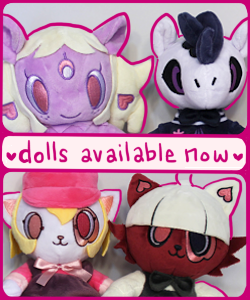
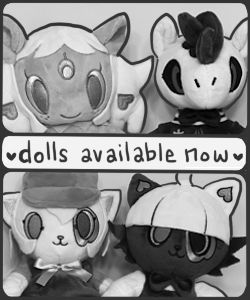
gray

diff --git a/floraverse_com/assets/scss/floraverse.scss b/floraverse_com/assets/scss/floraverse.scss
@@ -7,7 +7,7 @@ body {
 
 body > header {
     padding: 0.5em;
-    background: #44436f;
+    background: grayscale(#44436f);
 }
 
 .front-page-layout .front-page-sidebar {
@@ -25,7 +25,7 @@ body > header {
         @include flex-wrap(wrap);
         @include justify-content(space-around);
         padding: 0.5em;
-        background: #44436f;
+        background: grayscale(#44436f);
 
         a {
             display: block;
@@ -33,7 +33,7 @@ body > header {
             margin: 5%;
             width: calc(50% - 1em);
             margin: calc(0.5em);
-            background: #f0d1f9;
+            background: grayscale(#f0d1f9);
         }
         img {
             display: block;
@@ -67,7 +67,7 @@ body > header {
     @include justify-content(space-between);
     @include align-items(center);
     padding: 0.5em;
-    background: #cac6cf;
+    background: grayscale(#cac6cf);
 
     > .-spacer {
         @include flex(1);
@@ -80,7 +80,7 @@ body > header {
     @include align-items(flex-end);
     @include justify-content(center);
     margin: 0 0.5em;
-    background-color: #817390;
+    background-color: grayscale(#817390);
     // TODO alas i can't get an asset url from in here, so i gotta hardcode this
     background-image:
         url(/static/images/global-title-background-full.png);
@@ -92,7 +92,7 @@ body > header {
     }
     .floraverse-banner--left {
         // space between beleth's tail and the logo
-        margin-right: -50px;
+        //margin-right: -50px;
         // beleth's overlap with the left box
         margin-left: -30px;
     }
@@ -101,7 +101,7 @@ body > header {
     }
     .floraverse-banner--right {
         // space between the logo and andre's...  nose
-        margin-left: -110px;
+        //margin-left: -110px;
         // andre's overlap with the frame
         margin-bottom: -19px;
         // andre's overlap with the right box
@@ -131,19 +131,19 @@ body > header {
     }
 }
 .floraverse-button-deviantart {
-    background: #3a6057;
+    background: grayscale(#3a6057);
 }
 .floraverse-button-twitter {
     background: white;
 }
 .floraverse-button-tumblr {
-    background: #160d4a;
+    background: grayscale(#160d4a);
 }
 .floraverse-button-patreon {
     background: white;
 }
 .floraverse-button-facebook {
-    background: #324274;
+    background: grayscale(#324274);
 }
 .floraverse-button-rss {
     background: white;
@@ -155,7 +155,7 @@ body > header {
     padding: 0.5em;
 
     color: white;
-    background: #242254;
+    background: grayscale(#242254);
 
     > ul {
         @include flexbox;

diff --git a/floraverse_com/assets/scss/_defs--override.scss b/floraverse_com/assets/scss/_defs--override.scss
@@ -1,3 +1,3 @@
-$primary-accent: hsl(280, 21%, 59%);
-$secondary-accent: hsl(241, 25%, 35%);
-$body-bg-color: hsl(277, 20%, 85%);
+$primary-accent: grayscale(hsl(280, 21%, 59%));
+$secondary-accent: grayscale(hsl(241, 25%, 35%));
+$body-bg-color: grayscale(hsl(277, 20%, 85%));
